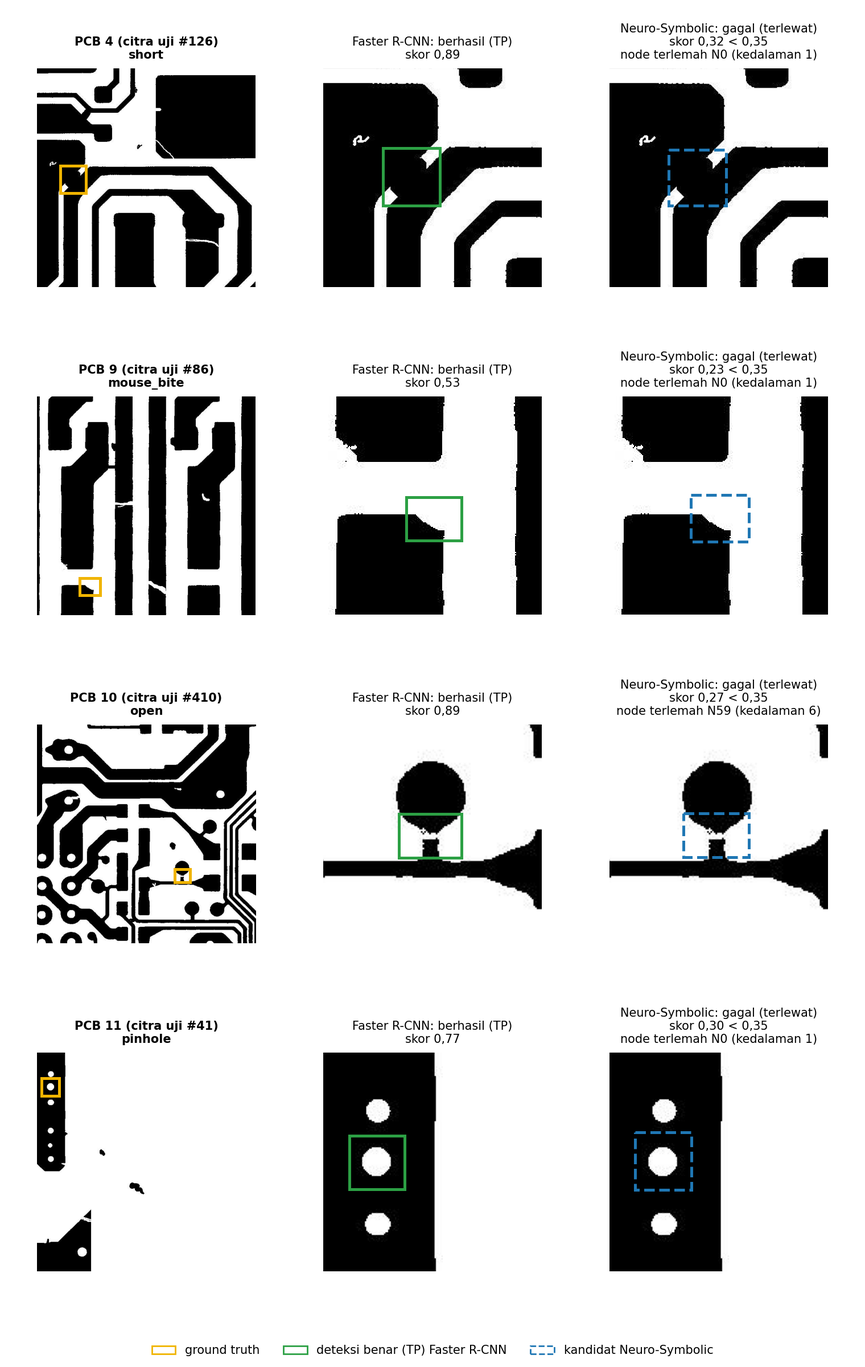
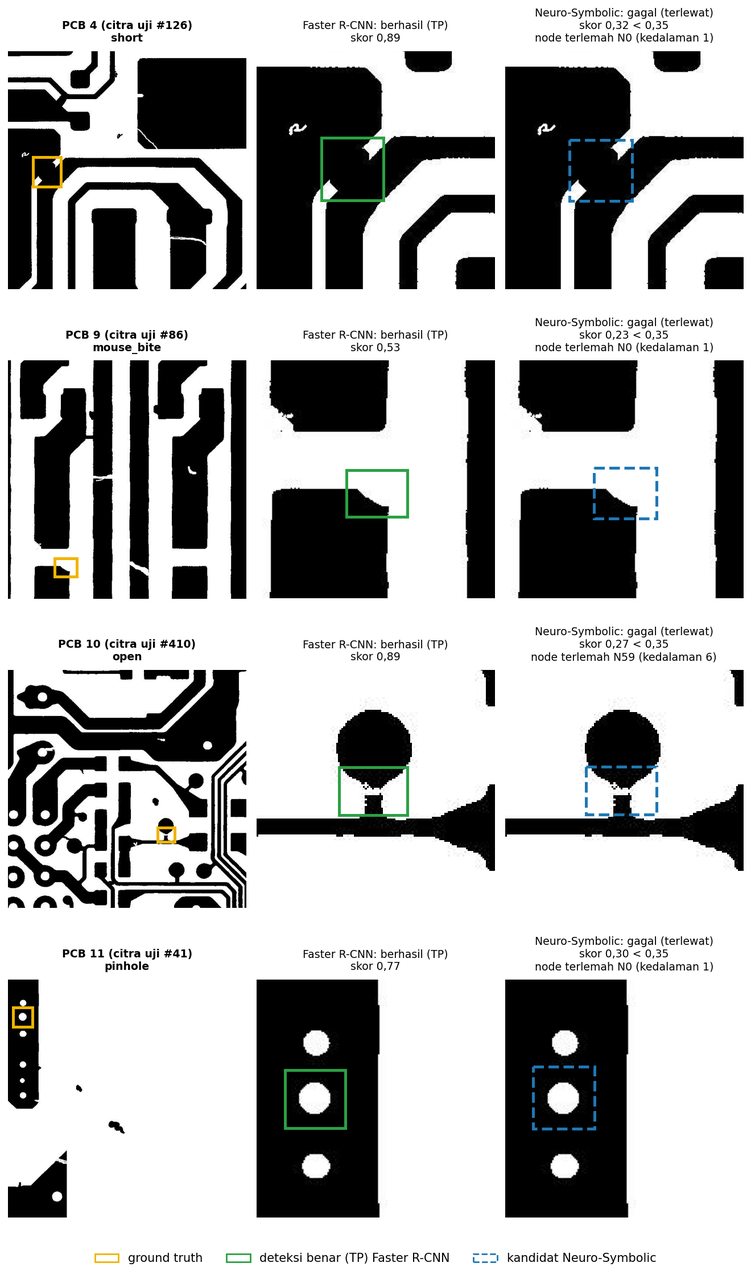
Adding routing margin figure

diff --git a/papers/make_figures_bab4.py b/papers/make_figures_bab4.py
@@ -1,4 +1,4 @@
-"""Figures for Bab 4: Gambar 4.10 (deteksi 4 PCB), 4.11/4.12 (bukti FP/FN), 4.13 (keyakinan root), 4.14 (confusion matrix).
+"""Figures for Bab 4: Lampiran 1 (deteksi 4 PCB), Gambar 4.10/4.11 (bukti FP/FN), 4.12 (keyakinan root), 4.13 (confusion matrix), 4.14 (routing margin per node).
 
 Run from anywhere: python papers/make_figures_bab4.py
 Inference is cached in figures_bab4_v2/_cache_detections.pt (detections, NeSy per-node certainties) and
@@ -226,7 +226,7 @@ def blank_axis(ax) -> None:
 
 
 def detection_figure(records, dataset) -> None:
-    """Gambar 4.10: GT | Faster R-CNN | NeSy for four PCBs. Every model box carries its score
+    """Lampiran 1: GT | Faster R-CNN | NeSy for four PCBs. Every model box carries its score
     (a missed defect shows its best same-class candidate's score, or – if the model has none)."""
     fig, axes = plt.subplots(len(DETECTION_PCBS), 3, figsize=(9.0, 12.6), dpi=200)
     fig.subplots_adjust(left=0.01, right=0.99, top=0.955, bottom=0.04, wspace=0.03, hspace=0.20)
@@ -335,9 +335,9 @@ def evidence_rows(records, hybrid, dataset, device) -> tuple[list[dict], list[di
 
 
 def evidence_figure(rows: list[dict], group: str, dataset, filename: str) -> None:
-    """Gambar 4.11 ("fp") / 4.12 ("fn"): PCB (one marked location) | Faster R-CNN | NeSy, one example per row."""
-    fig = plt.figure(figsize=(7.6, 2.8 * len(rows) + 0.8), dpi=200)
-    grid = fig.add_gridspec(len(rows), 3, hspace=0.5, wspace=0.04, left=0.01, right=0.99, top=0.95, bottom=0.07)
+    """Gambar 4.10 ("fp") / 4.11 ("fn"): PCB (one marked location) | Faster R-CNN | NeSy, one example per row."""
+    fig = plt.figure(figsize=(6.6, 2.6 * len(rows) + 0.8), dpi=200)  # width ≈ row height, so the square crops fill their slots
+    grid = fig.add_gridspec(len(rows), 3, hspace=0.3, wspace=0.04, left=0.01, right=0.99, top=0.96, bottom=0.045)
     marker_color = FP_RED if group == "fp" else FN_YELLOW
     all_axes = []
     for k, row in enumerate(rows):
@@ -347,7 +347,7 @@ def evidence_figure(rows: list[dict], group: str, dataset, filename: str) -> Non
         marker = row["frcnn"]["box"] if group == "fp" else row["gt_box"]
         axes[0].imshow(image)
         draw_box(axes[0], marker, marker_color, linewidth=1.8, pad=6)
-        axes[0].set_title(f"PCB {row['pcb']} (citra uji #{row['index']})\n{row['cls']}", fontsize=7.5, fontweight="bold")
+        axes[0].set_title(f"PCB {row['pcb']} (citra uji #{row['index']})\n{row['cls']}", fontsize=6.8, fontweight="bold")
         left, top, right, bottom = crop_window(marker)
         for ax in axes[1:]:
             ax.imshow(image)
@@ -357,11 +357,11 @@ def evidence_figure(rows: list[dict], group: str, dataset, filename: str) -> Non
         draw_box(axes[2], row["nesy_box"], REJECT_BLUE, linestyle="--", linewidth=1.8)
         nesy_score = f"skor {fmt(row['nesy_score'])} < {fmt_threshold(NESY_THR)}"
         if group == "fp":
-            axes[1].set_title(f"Faster R-CNN: gagal (FP)\nskor {fmt(row['frcnn']['score'])}", fontsize=7.5)
-            axes[2].set_title(f"Neuro-Symbolic: berhasil (ditolak)\n{nesy_score}", fontsize=7.5)
+            axes[1].set_title(f"Faster R-CNN: gagal (FP)\nskor {fmt(row['frcnn']['score'])}", fontsize=6.8)
+            axes[2].set_title(f"Neuro-Symbolic: berhasil (ditolak)\n{nesy_score}", fontsize=6.8)
         else:
-            axes[1].set_title(f"Faster R-CNN: berhasil (TP)\nskor {fmt(row['frcnn']['score'])}", fontsize=7.5)
-            axes[2].set_title(f"Neuro-Symbolic: gagal (terlewat)\n{nesy_score}\nnode terlemah N{row['node']} (kedalaman {row['depth']})", fontsize=7.5)
+            axes[1].set_title(f"Faster R-CNN: berhasil (TP)\nskor {fmt(row['frcnn']['score'])}", fontsize=6.8)
+            axes[2].set_title(f"Neuro-Symbolic: gagal (terlewat)\n{nesy_score}\nnode terlemah N{row['node']} (kedalaman {row['depth']})", fontsize=6.8)
     for ax in all_axes:
         blank_axis(ax)
     handles = [plt.Rectangle((0, 0), 1, 1, fill=False, edgecolor=REJECT_BLUE, linestyle="--", label="kandidat Neuro-Symbolic")]
@@ -425,7 +425,7 @@ def root_confidence(records: list[dict], tree) -> dict[str, object]:
 
 
 def root_figure(confidence: dict[str, object], counts: np.ndarray) -> None:
-    """Gambar 4.13: (a) root σ of detected defects, rejected Faster R-CNN false positives and missed defects,
+    """Gambar 4.12: (a) root σ of detected defects, rejected Faster R-CNN false positives and missed defects,
     (b) share of RoIs N0 sends left / right per class."""
     tp, misses, rejected = confidence["tp"], confidence["misses"], np.array([m["sigma"] for m in confidence["rejected"]])
     names = ["background", "open", "short", "mousebite", "spur", "spurious copper", "pinhole"]
@@ -490,7 +490,7 @@ def root_figure(confidence: dict[str, object], counts: np.ndarray) -> None:
 
 
 def confusion_figure(cms: dict[str, np.ndarray]) -> None:
-    """Gambar 4.14: confusion matrix without (a) and with (b) routing margin, one shared color scale."""
+    """Gambar 4.13: confusion matrix without (a) and with (b) routing margin, one shared color scale."""
     names = ["background", "open", "short", "mousebite", "spur", "spurious copper", "pinhole"]
     vmax = max(cms["nomargin"].max(), cms["nesy"].max())
     fig, axes = plt.subplots(1, 2, figsize=(11.5, 6.2), dpi=200)
@@ -513,6 +513,99 @@ def confusion_figure(cms: dict[str, np.ndarray]) -> None:
     plt.close(fig)
 
 
+# (test index, row in the cached NeSy output, score): A is a pinhole TP, B a background pinhole candidate under the cutoff.
+MARGIN_EXAMPLES = ((360, 0, 0.856), (47, 6, 0.267))
+BAND_EDGES = (0.5, 0.6, 0.7, 0.8, 0.9, 1.0001)
+BAND_COLORS = plt.cm.Blues(np.linspace(0.12, 0.75, len(BAND_EDGES) - 1))  # the five blue bands of Gambar 3.5
+
+
+def draw_margin_panel(ax, tree, feature: np.ndarray, step, is_root: bool) -> None:
+    """One node as in Gambar 3.5: split line, blue σ bands, the RoI x and its distance |f(x)| to the split.
+
+    Axes are the node's score split in two, a = evidence for left (Σw⁺x) and c = evidence for right (−Σw⁻x),
+    so f(x) = a − c + b exactly (same construction as neurosym.visualization._draw_node_split_panel).
+    """
+    w, bias = tree.node_weights[step.node_index], float(tree.node_bias[step.node_index])
+    parts = w * feature
+    a, c = float(parts[w > 0].sum()), float(-parts[w < 0].sum())
+    assert abs(a - c + bias - step.score) < 1e-3 * (1 + abs(step.score)), (step.node_index, a - c + bias, step.score)
+    lo, hi = min(0.0, a, c), 1.15 * max(a, c, abs(bias), 1e-6)
+    grid = np.linspace(lo, hi, 200)
+    sigma = 1 / (1 + np.exp(-np.abs(grid[None, :] - grid[:, None] + bias)))  # rows = c, cols = a
+    ax.contourf(grid, grid, sigma, levels=BAND_EDGES, colors=BAND_COLORS, zorder=0)
+    ax.plot(grid, grid + bias, color="black", lw=1.3, zorder=2)
+    foot = ((a + c - bias) / 2, (a + c + bias) / 2)  # closest point on the split line
+    ax.plot([a, foot[0]], [c, foot[1]], color=FP_RED, lw=1.6, ls=":", zorder=3)
+    ax.plot(a, c, "o", color="#fdd835", mec="black", ms=7, zorder=4)
+    ax.text(a, c, " x", fontsize=8, style="italic", fontweight="bold", va="bottom", zorder=5)
+    mid = (a + foot[0]) / 2
+    ax.text(mid, (c + foot[1]) / 2, " |f(x)| ", fontsize=6.5, color=FP_RED, ha="right" if mid > (lo + hi) / 2 else "left", va="top", zorder=5)
+    ax.set_xlim(lo, hi)
+    ax.set_ylim(lo, hi)
+    ax.set_aspect("equal")
+    ax.tick_params(labelsize=6)
+    ax.set_title(f"N{step.node_index}{' (akar)' if is_root else ''}: ke {'kiri' if step.went_left else 'kanan'}", fontsize=7.5, fontweight="bold", pad=3)
+    ax.set_xlabel(f"bukti kiri\nσ(|f(x)|) ≈ {fmt(1 / (1 + np.exp(-abs(step.score))))}", fontsize=7, labelpad=2)
+    ax.set_ylabel("bukti kanan", fontsize=7, labelpad=2)
+
+
+@torch.inference_mode()
+def routing_margin_figure(records: list[dict], hybrid, dataset: PCBDataset) -> None:
+    """Gambar 4.14: routing margin of every node on the path of a pinhole TP (A) and a background pinhole under the cutoff (B), styled as Gambar 3.5."""
+    tree = hybrid.symbolic_tree
+    columns = []
+    for index, row, expected in MARGIN_EXAMPLES:
+        record, nesy = records[index], records[index]["nesy"]
+        label, score, box = int(nesy["labels"][row]), float(nesy["scores"][row]), nesy["boxes"][row]
+        iou = float(box_iou(box[None], record["gt_boxes"]).max()) if record["gt_boxes"].numel() else 0.0
+        assert label == 6 and abs(score - expected) < 6e-4, (index, row, label, score)
+        assert abs(float(np.exp(nesy["log_certainties"][row].sum())) - score) < 2e-3, "score is Πσ (Persamaan 3.3)"
+        assert (iou >= IOU_THR) if expected > NESY_THR else (iou < BACKGROUND_IOU and score < NESY_THR), (index, iou)
+        image, _ = dataset[index]
+        out = hybrid([image])[0]
+        k = [j for j in range(len(out["scores"])) if int(out["labels"][j]) == label and abs(float(out["scores"][j]) - score) < 1e-5]
+        assert len(k) == 1, (index, row, k)
+        feature = out["pooled_features"][k[0]].detach().cpu().numpy().reshape(-1)
+        steps = [s for s in tree.decision_path(feature) if np.any(tree.node_weights[s.node_index] != 0.0)]
+        print(f"routing margin figure {'AB'[len(columns)]}: PCB test #{index}, score {score:.3f}, path {[f'N{s.node_index}' for s in steps]}, "
+              f"σ {[round(float(1 / (1 + np.exp(-abs(s.score)))), 3) for s in steps]}")
+        columns.append((score, box, image_to_array(image), feature, steps))
+
+    rows = max(len(steps) for *_, steps in columns) // 2
+    fig = plt.figure(figsize=(7.2, 8.6), dpi=200)
+    # Crops, node panels and verdict boxes are separate blocks so each vertical gap is set on its own.
+    block = dict(ncols=5, width_ratios=(1, 1, 0.08, 1, 1), left=0.06, right=0.98, wspace=0.42)
+    crop_grid = fig.add_gridspec(1, top=0.905, bottom=0.745, **block)
+    grid = fig.add_gridspec(rows, top=0.70, bottom=0.185, hspace=0.55, **block)
+    box_grid = fig.add_gridspec(1, top=0.115, bottom=0.07, **block)
+    for side, (score, box, array, feature, steps) in zip((0, 3), columns):
+        accepted = score >= NESY_THR
+        ax = fig.add_subplot(crop_grid[0, side:side + 2])
+        left, top, right, bottom = crop_window(box, factor=6.0)
+        ax.imshow(array)
+        ax.set_xlim(left, right)
+        ax.set_ylim(bottom, top)
+        draw_box(ax, box, TP_GREEN if accepted else REJECT_BLUE, linestyle="-" if accepted else "--", linewidth=1.8)
+        ax.set_title(f"{'A' if accepted else 'B'}: pinhole, skor {fmt(score)}", fontsize=10, fontweight="bold")
+        blank_axis(ax)
+        for n, step in enumerate(steps):
+            panel = fig.add_subplot(grid[n // 2, side + n % 2])
+            draw_margin_panel(panel, tree, feature, step, step.node_index == 0)
+        ax = fig.add_subplot(box_grid[0, side:side + 2])
+        blank_axis(ax)
+        verdict = f"s(x) = ∏ σ(|fᵢ(x)|) ≈ {fmt(score)}" + ("" if accepted else f"\n< {fmt_threshold(NESY_THR)}: ditolak")
+        ax.text(0.5, 0.5, verdict, ha="center", va="center", fontsize=8.5, fontweight="bold", transform=ax.transAxes,
+                bbox=dict(boxstyle="square,pad=0.5", facecolor="#fff75e", edgecolor=FP_RED, linewidth=2))
+    legend = fig.add_axes((0.20, 0.037, 0.60, 0.014))
+    legend.imshow(np.arange(len(BAND_COLORS))[None, :], cmap=matplotlib.colors.ListedColormap(BAND_COLORS), aspect="auto")
+    blank_axis(legend)
+    fig.text(0.20, 0.016, "dekat split: σ ≈ 0,5 (ragu)", fontsize=8, ha="left", va="center")
+    fig.text(0.80, 0.016, "jauh dari split: σ → 1 (yakin)", fontsize=8, ha="right", va="center")
+    fig.suptitle("Routing margin setiap node pada jalur keputusan", fontsize=10, fontweight="bold", x=0.5, y=0.985)
+    fig.savefig(OUT / "fig_routing_margin.png", facecolor="white")
+    plt.close(fig)
+
+
 def main() -> None:
     hybrid, train_config, device = load_models()
     dataset = load_test_set(train_config)
@@ -526,6 +619,7 @@ def main() -> None:
     evidence_figure(rows_fn, "fn", dataset, "fig_fn_terlewat.png")
     root_figure(root_confidence(records, hybrid.symbolic_tree), root_split_counts(hybrid, dataset, device))
     confusion_figure(cms)
+    routing_margin_figure(records, hybrid, dataset)
 
 
 if __name__ == "__main__":

diff --git a/papers/Draft-Laporan_Handi_v2.md b/papers/Draft-Laporan_Handi_v2.md
@@ -278,15 +278,15 @@ Gambar 4.8 Grafik *Mimic Accuracy* dan *Nonzero Weight*
 
 Gambar 4.9 Perbandingan Struktur Pohon Penuh dan SODT Terpilih
 
-Gambar 4.10 Hasil deteksi *ground truth*, *Faster* R-CNN, dan *Neuro-Symbolic* pada empat PCB uji
+Gambar 4.10 *False positive Faster* R-CNN yang ditolak NeSy
 
-Gambar 4.11 *False positive Faster* R-CNN yang ditolak NeSy
+Gambar 4.11 Cacat yang terdeteksi *Faster* R-CNN tetapi terlewat NeSy
 
-Gambar 4.12 Cacat yang terdeteksi *Faster* R-CNN tetapi terlewat NeSy
+Gambar 4.12 Keyakinan *root* pada deteksi benar, *false positive* yang ditolak, dan cacat terlewat NeSy: (a) keyakinan *root* dan (b) arah *root* per kelas
 
-Gambar 4.13 Keyakinan *root* pada deteksi benar, *false positive* yang ditolak, dan cacat terlewat NeSy: (a) keyakinan *root* dan (b) arah *root* per kelas
+Gambar 4.13 *Confusion Matrix Neuro-Symbolic* (ambang 0,35): (a) tanpa *Routing Margin* dan (b) dengan *Routing Margin*
 
-Gambar 4.14 *Confusion Matrix Neuro-Symbolic* (ambang 0,35): (a) tanpa *Routing Margin* dan (b) dengan *Routing Margin*
+Gambar 4.14 *Routing Margin* per *Node* pada Deteksi *Pinhole* Benar (A) dan *Background* yang Ditolak (B)
 
 Gambar 4.15 Penjelasan pada PCB 1: (a) peta M (NeSy) dan (b) peta Grad-CAM pada proposal yang sama
 
@@ -338,9 +338,7 @@ Tabel 4.11 Cacat Terlewat (*False Negative*) per Kelas
 
 Tabel 4.12 Pengaruh *Routing Margin* pada Deteksi *Neuro-Symbolic*
 
-Tabel 4.13 Jenis *False Positive* tanpa dan dengan *Routing Margin*
-
-Tabel 4.14 *Faithfulness* Metode *Explanation* terhadap *Random Control*
+Tabel 4.13 *Faithfulness* Metode *Explanation* terhadap *Random Control*
 
 # DAFTAR ALGORITMA
 
@@ -1476,11 +1474,7 @@ Ambang NeSy tanpa CW diturunkan dengan aturan yang sama pada Subbab 3.8.1, yaitu
 
 Berdasarkan Tabel 4.8, SODT menggantikan *classification head* dengan selisih mAP@0,5:0,95 hanya 0,010 dan mAP@0,5 hanya 0,005, tetapi *precision* naik 0,9 poin dan F1 naik 0,3 poin, dengan *recall* turun 0,5 poin. Selisih ini kecil, sehingga NeSy dibaca setara dengan *Faster* R-CNN pada ambang masing-masing, bukan lebih baik. Baris *precision* pada Tabel 4.9 menunjukkan *precision* naik pada lima dari enam kelas, terbesar pada *short* (+0,035) dan *spurious copper* (+0,017) yang termasuk kelas paling lemah di *Faster* R-CNN, sedangkan *spur* turun 0,017. Hanya pada *short* selisihnya cukup besar. Pohon tanpa CW (baris terakhir Tabel 4.8) memberi mAP, *precision*, *recall*, dan F1 yang sama sampai tiga desimal, dengan *precision short* 0,890 yang bahkan lebih tinggi daripada 0,862. Jadi CW memperbaiki *agreement* pohon pada kelas lemah (Tabel 4.6), tetapi pengaruh tersebut tidak terlihat pada kinerja deteksi, dan kenaikan *precision* di atas tidak dapat dikaitkan dengan CW. AP pada Tabel 4.9 sedikit lebih rendah pada semua kelas karena SODT menurunkan kualitas urutan skor, sebagaimana dibahas pada Subbab 4.6.3.
 
-Hasil deteksi ditunjukkan pada empat PCB uji pada Gambar 4.10, dengan *ground truth* pada kolom pertama, *Faster* R-CNN pada kolom kedua, dan NeSy pada kolom ketiga. PCB 1 sampai PCB 3 dipilih acak dari citra yang dideteksi benar oleh kedua model, sedangkan PCB 4 dipilih karena kedua model berbeda hasilnya. Ambang skor masing-masing model tertera pada judul kolom. Kotak hijau adalah deteksi benar (TP) dan diberi nomor urutan skor serta skornya, tanpa kelas karena kelasnya sama dengan *ground truth* pada kolom pertama. Kotak merah adalah *false positive* (FP) dengan nomor, kelas, dan skor, sedangkan kotak kuning putus-putus menandai cacat yang terlewat (FN) dengan kelas dan skor kandidat terbaik model pada cacat tersebut, atau tanda – bila model tidak memiliki kandidat. PCB 1 digunakan kembali pada Subbab 4.7.2.
-
-![Gambar 4.10](figures_bab4_v2/fig_deteksi_4pcb.png)
-
-**Gambar 4.10 Hasil deteksi *ground truth*, *Faster* R-CNN, dan *Neuro-Symbolic* pada empat PCB uji**
+Hasil deteksi pada empat PCB uji ditunjukkan pada Lampiran 1. PCB 1 sampai PCB 3 dipilih acak dari citra yang dideteksi benar oleh kedua model, sedangkan PCB 4 dipilih karena kedua model berbeda hasilnya. PCB 1 digunakan kembali pada Subbab 4.7.2.
 
 Pada PCB 1 sampai PCB 3, kedua model menemukan seluruh cacat dengan kelas yang benar dan tanpa *false positive*. Perbedaannya terletak pada skor yang tertera pada setiap kotak. Pada ke-19 deteksi di PCB 1 sampai PCB 3, *Faster* R-CNN memberi skor 0,98 hingga 1,00, sedangkan NeSy memberi skor 0,40 hingga 0,83 yang bervariasi menurut keyakinan *decision path*. Pada PCB 4 yang memuat 8 cacat, kedua model kesulitan pada kelompok *short* di kiri bawah. *Faster* R-CNN menghasilkan dua *false positive* (#9 dan #10, *short* berskor 0,73 dan 0,70) dengan seluruh cacat terdeteksi, sedangkan NeSy menghasilkan satu *false positive* (#8, *spur* berskor 0,48) dan melewatkan satu *short*. Kesalahan tersebut berbeda jenis tetapi sama-sama terjadi pada area yang ambigu, dan pola serupa dibahas pada Subbab 4.6.2.
 
@@ -1506,29 +1500,29 @@ Dari 260 *false positive* *background* *Faster* R-CNN, 74 tidak lagi terdeteksi 
 
 Dari cacat yang berhasil dideteksi *Faster* R-CNN, 15 hilang pada NeSy. Sebanyak 14 di antaranya terjadi karena skor NeSy berada di bawah ambang 0,35 dan hanya satu karena kelas yang salah. Penyebab skor rendah adalah *node* terlemah pada *decision path*, yaitu *node* dengan faktor σ terkecil pada Persamaan 3.3, yang berupa *root* (N0) pada 9 dari 14 kasus. Kehilangan terbanyak terjadi pada *open* dan *mousebite* (masing-masing 4), diikuti *short* (3), *pinhole* (2), serta *spur* dan *spurious copper* (masing-masing 1).
 
-Kedua sisi perilaku tersebut ditunjukkan pada Gambar 4.11 dan Gambar 4.12. Setiap baris memuat satu contoh dengan tiga kolom, yaitu citra PCB utuh dengan satu kotak penanda lokasi, potongan yang diperbesar berisi hasil *Faster* R-CNN, dan potongan yang sama berisi hasil NeSy. Gambar 4.11 memperlihatkan *false positive* *Faster* R-CNN pada area tanpa cacat yang ditolak NeSy. Kotak merah pada citra PCB menandai lokasinya, kotak merah pada potongan adalah deteksi *Faster* R-CNN, dan kotak biru putus-putus adalah kandidat NeSy yang skornya berada di bawah ambang.
+Kedua sisi perilaku tersebut ditunjukkan pada Gambar 4.10 dan Gambar 4.11. Setiap baris memuat satu contoh dengan tiga kolom, yaitu citra PCB utuh dengan satu kotak penanda lokasi, potongan yang diperbesar berisi hasil *Faster* R-CNN, dan potongan yang sama berisi hasil NeSy. Gambar 4.10 memperlihatkan *false positive* *Faster* R-CNN pada area tanpa cacat yang ditolak NeSy. Kotak merah pada citra PCB menandai lokasinya, kotak merah pada potongan adalah deteksi *Faster* R-CNN, dan kotak biru putus-putus adalah kandidat NeSy yang skornya berada di bawah ambang.
 
-![Gambar 4.11](figures_bab4_v2/fig_fp_ditolak.png)
+![Gambar 4.10](figures_bab4_v2/fig_fp_ditolak.png)
 
-**Gambar 4.11 *False positive Faster* R-CNN yang ditolak NeSy**
+**Gambar 4.10 *False positive Faster* R-CNN yang ditolak NeSy**
 
-Pada Gambar 4.11, keempat kotak merah *Faster* R-CNN (skor 0,62 hingga 0,78) menutupi struktur yang tampak seperti cacat, misalnya lubang bundar pada tembaga atau jalur yang berdekatan, dengan kelas prediksi *pinhole*, *short*, *spurious copper*, dan *mousebite*, tetapi tidak ada anotasi di sana. NeSy memberi kandidat yang hampir sama kotaknya, namun berskor 0,21 hingga 0,29 sehingga berada di bawah ambang 0,35.
+Pada Gambar 4.10, keempat kotak merah *Faster* R-CNN (skor 0,62 hingga 0,78) menutupi struktur yang tampak seperti cacat, misalnya lubang bundar pada tembaga atau jalur yang berdekatan, dengan kelas prediksi *pinhole*, *short*, *spurious copper*, dan *mousebite*, tetapi tidak ada anotasi di sana. NeSy memberi kandidat yang hampir sama kotaknya, namun berskor 0,21 hingga 0,29 sehingga berada di bawah ambang 0,35.
 
-Gambar 4.12 memperlihatkan arah sebaliknya, yaitu cacat yang terdeteksi *Faster* R-CNN tetapi terlewat NeSy. Kotak kuning pada citra PCB adalah *ground truth*, kotak hijau pada potongan adalah deteksi benar *Faster* R-CNN, dan kotak biru putus-putus adalah kandidat NeSy. *Node* terlemah pada *decision path* tertulis pada judul potongan NeSy. Contoh pertama berasal dari PCB 4 pada Gambar 4.10.
+Gambar 4.11 memperlihatkan arah sebaliknya, yaitu cacat yang terdeteksi *Faster* R-CNN tetapi terlewat NeSy. Kotak kuning pada citra PCB adalah *ground truth*, kotak hijau pada potongan adalah deteksi benar *Faster* R-CNN, dan kotak biru putus-putus adalah kandidat NeSy. *Node* terlemah pada *decision path* tertulis pada judul potongan NeSy. Contoh pertama berasal dari PCB 4 pada Lampiran 1.
 
-![Gambar 4.12](figures_bab4_v2/fig_fn_terlewat.png)
+![Gambar 4.11](figures_bab4_v2/fig_fn_terlewat.png)
 
-**Gambar 4.12 Cacat yang terdeteksi *Faster* R-CNN tetapi terlewat NeSy**
+**Gambar 4.11 Cacat yang terdeteksi *Faster* R-CNN tetapi terlewat NeSy**
 
-Pada Gambar 4.12, keempat cacat nyata (*short*, *mousebite*, *open*, dan *pinhole*) memiliki skor NeSy 0,23 hingga 0,32, dengan tiga di antaranya ditolak pada *root* dan satu pada N59. Kotak NeSy hampir sama dengan kotak *Faster* R-CNN dan *ground truth*. Dengan demikian NeSy tidak salah menemukan lokasi, melainkan kurang yakin terhadap kelasnya. Cacat pada PCB 4 adalah *short* yang terlewat pada Gambar 4.10.
+Pada Gambar 4.11, keempat cacat nyata (*short*, *mousebite*, *open*, dan *pinhole*) memiliki skor NeSy 0,23 hingga 0,32, dengan tiga di antaranya ditolak pada *root* dan satu pada N59. Kotak NeSy hampir sama dengan kotak *Faster* R-CNN dan *ground truth*. Dengan demikian NeSy tidak salah menemukan lokasi, melainkan kurang yakin terhadap kelasnya. Cacat pada PCB 4 adalah *short* yang terlewat pada Lampiran 1.
 
-Penyebab skor rendah tersebut diuji pada Gambar 4.13. Keyakinan *root* adalah faktor σ milik *root* pada Persamaan 3.3, bernilai 0,5 bila *root* sama sekali tidak yakin dan mendekati 1 bila sangat yakin. Panel (a) membandingkan keyakinan *root* pada 3.072 deteksi benar NeSy, pada 69 *false positive* *background* *Faster* R-CNN yang ditolak NeSy dengan kandidat berskor di bawah ambang (5 lainnya tidak memiliki kandidat NeSy sama sekali), dan pada 14 cacat yang ditolak karena skornya di bawah ambang 0,35. Panel (b) menunjukkan ke arah mana *root* mengirim RoI dari setiap kelas menurut label *teacher*.
+Penyebab skor rendah tersebut diuji pada Gambar 4.12. Keyakinan *root* adalah faktor σ milik *root* pada Persamaan 3.3, bernilai 0,5 bila *root* sama sekali tidak yakin dan mendekati 1 bila sangat yakin. Panel (a) membandingkan keyakinan *root* pada 3.072 deteksi benar NeSy, pada 69 *false positive* *background* *Faster* R-CNN yang ditolak NeSy dengan kandidat berskor di bawah ambang (5 lainnya tidak memiliki kandidat NeSy sama sekali), dan pada 14 cacat yang ditolak karena skornya di bawah ambang 0,35. Panel (b) menunjukkan ke arah mana *root* mengirim RoI dari setiap kelas menurut label *teacher*.
 
-![Gambar 4.13](figures_bab4_v2/fig_root_keyakinan.png)
+![Gambar 4.12](figures_bab4_v2/fig_root_keyakinan.png)
 
-**Gambar 4.13 Keyakinan *root* pada deteksi benar, *false positive* yang ditolak, dan cacat terlewat NeSy: (a) keyakinan *root* dan (b) arah *root* per kelas**
+**Gambar 4.12 Keyakinan *root* pada deteksi benar, *false positive* yang ditolak, dan cacat terlewat NeSy: (a) keyakinan *root* dan (b) arah *root* per kelas**
 
-Pada Gambar 4.13 (a), deteksi benar memiliki median keyakinan *root* 0,85 dan hanya 45 dari 3.072 (1,5%) yang berada di bawah 0,65. *False positive* *background* yang ditolak bermedian 0,61 dengan 44 dari 69 di bawah 0,65, sedangkan 9 cacat yang ditolak di *root* bermedian 0,55 dan tidak ada yang melebihi 0,61. Dengan demikian RoI yang ditolak, baik *background* maupun cacat, sama-sama memiliki keyakinan *root* yang rendah, yang jarang dimiliki deteksi benar. Pada panel (b), *root* mengirim sebagian besar *background* (83%) ke kiri dan sebagian besar cacat ke kanan, dari 53% pada *spur* hingga 100% pada *mousebite*. Keyakinan *root* yang mendekati 0,5 berarti RoI berada dekat batas antara kedua sisi tersebut, sehingga keputusan pertama NeSy goyah dan skor akhirnya turun di bawah ambang. *Root* menjadi *node* terlemah pada 39 dari 69 *false positive* yang ditolak dan pada 9 dari 14 cacat yang terlewat. Sisanya (30 *false positive* dan 5 cacat, yang terakhir ditandai titik berongga pada panel (a)) tidak paling lemah di *root*, tetapi ditolak pada *node* yang lebih dalam dengan mekanisme yang sama, yaitu RoI berada dekat batas keputusan *node* yang mereka pisahkan. Mekanisme ini tidak berlaku untuk salah kelas yang bertambah pada Tabel 4.10. Pada 22 *false positive* salah kelas yang tidak dibuat *Faster* R-CNN, keyakinan *root* bermedian 0,87 dan *root* hanya menjadi *node* terlemah pada 6 kasus, sehingga kesalahan kelas tersebut berasal dari *node* yang lebih dalam, bukan dari *root* yang ragu. Dengan demikian, *background* yang ditolak dan cacat yang terlewat dijelaskan oleh sebab yang sama: RoI yang dekat batas keputusan pohon mendapat skor rendah, sehingga *background* yang ambigu ditolak (*precision* naik) dan cacat yang ambigu ikut ditolak (*recall* turun), bukan karena NeSy salah menemukan lokasi.
+Pada Gambar 4.12 (a), deteksi benar memiliki median keyakinan *root* 0,85 dan hanya 45 dari 3.072 (1,5%) yang berada di bawah 0,65. *False positive* *background* yang ditolak bermedian 0,61 dengan 44 dari 69 di bawah 0,65, sedangkan 9 cacat yang ditolak di *root* bermedian 0,55 dan tidak ada yang melebihi 0,61. Dengan demikian RoI yang ditolak, baik *background* maupun cacat, sama-sama memiliki keyakinan *root* yang rendah, yang jarang dimiliki deteksi benar. Pada panel (b), *root* mengirim sebagian besar *background* (83%) ke kiri dan sebagian besar cacat ke kanan, dari 53% pada *spur* hingga 100% pada *mousebite*. Keyakinan *root* yang mendekati 0,5 berarti RoI berada dekat batas antara kedua sisi tersebut, sehingga keputusan pertama NeSy goyah dan skor akhirnya turun di bawah ambang. *Root* menjadi *node* terlemah pada 39 dari 69 *false positive* yang ditolak dan pada 9 dari 14 cacat yang terlewat. Sisanya (30 *false positive* dan 5 cacat, yang terakhir ditandai titik berongga pada panel (a)) tidak paling lemah di *root*, tetapi ditolak pada *node* yang lebih dalam dengan mekanisme yang sama, yaitu RoI berada dekat batas keputusan *node* yang mereka pisahkan. Mekanisme ini tidak berlaku untuk salah kelas yang bertambah pada Tabel 4.10. Pada 22 *false positive* salah kelas yang tidak dibuat *Faster* R-CNN, keyakinan *root* bermedian 0,87 dan *root* hanya menjadi *node* terlemah pada 6 kasus, sehingga kesalahan kelas tersebut berasal dari *node* yang lebih dalam, bukan dari *root* yang ragu. Dengan demikian, *background* yang ditolak dan cacat yang terlewat dijelaskan oleh sebab yang sama: RoI yang dekat batas keputusan pohon mendapat skor rendah, sehingga *background* yang ambigu ditolak (*precision* naik) dan cacat yang ambigu ikut ditolak (*recall* turun), bukan karena NeSy salah menemukan lokasi.
 
 ### 4.6.3 *Routing Margin* (Kontribusi 2)
 
@@ -1541,32 +1535,33 @@ Tanpa *routing margin*, setiap deteksi berskor 1,0 sehingga urutan skor yang dib
 | NeSy tanpa *routing margin* | 0,35 | 0,644 | 0,810 | 0,750 | **0,988** | 0,852 |
 | NeSy dengan *routing margin* | 0,35 | **0,787** | **0,982** | **0,912** | 0,978 | **0,944** |
 
-Berdasarkan Tabel 4.12, *routing margin* menaikkan mAP@0,5:0,95 sebesar 0,142 dan mAP@0,5 sebesar 0,172, serta *precision* sebesar 16,2 poin, dengan *recall* hanya turun 1,0 poin. Tanpa skor, *false positive* meningkat dari 298 menjadi 1.036 (Tabel 4.13), sebagian besar karena duplikat tidak dapat dibedakan oleh *Soft*-NMS (7 menjadi 140) dan *background* tidak dapat disaring (215 menjadi 517).
+Berdasarkan Tabel 4.12, *routing margin* menaikkan mAP@0,5:0,95 sebesar 0,142 dan mAP@0,5 sebesar 0,172, serta *precision* sebesar 16,2 poin, dengan *recall* hanya turun 1,0 poin. Tanpa skor, *false positive* meningkat dari 298 menjadi 1.036, sebagian besar karena duplikat tidak dapat dibedakan oleh *Soft*-NMS (7 menjadi 140) dan *background* tidak dapat disaring (215 menjadi 517).
 
-**Tabel 4.13 Jenis *False Positive* tanpa dan dengan *Routing Margin***
+Rincian *false positive* tersebut dibuktikan melalui *confusion matrix* pada Gambar 4.13, dengan panel (a) tanpa *routing margin* dan panel (b) dengan *routing margin*. Tanpa *routing margin*, baris *background* membengkak, yaitu *background* yang dideteksi sebagai *short* (264), *pinhole* (218), *open* (152), dan *spurious copper* (143), dibandingkan 71, 89, 24, dan 51 dengan *routing margin*. Selain itu muncul pertukaran antarkelas seperti *mousebite* menjadi *pinhole* (25) dan *spurious copper* menjadi *pinhole* (16).
 
-| **Model** | **Background** | **Salah kelas** | **Salah lokalisasi** | **Duplikat** | **Total** |
-|:------------|--------|--------|--------|--------|--------|
-| NeSy tanpa *routing margin* | 517 | 248 | 131 | 140 | 1.036 |
-| NeSy dengan *routing margin* | **215** | **49** | **27** | **7** | **298** |
+![Gambar 4.13](figures_bab4_v2/cm_nesy_margin_compare.png)
 
-Pola yang sama terlihat pada *confusion matrix* pada Gambar 4.14, dengan panel (a) tanpa *routing margin* dan panel (b) dengan *routing margin*. Tanpa *routing margin*, baris *background* membengkak, yaitu *background* yang dideteksi sebagai *short* (264), *pinhole* (218), *open* (152), dan *spurious copper* (143), dibandingkan 71, 89, 24, dan 51 dengan *routing margin*. Selain itu muncul pertukaran antarkelas seperti *mousebite* menjadi *pinhole* (25) dan *spurious copper* menjadi *pinhole* (16).
+**Gambar 4.13 *Confusion Matrix Neuro-Symbolic* (ambang 0,35): (a) tanpa *Routing Margin* dan (b) dengan *Routing Margin***
 
-![Gambar 4.14](figures_bab4_v2/cm_nesy_margin_compare.png)
+Mekanisme penyaringan tersebut diperlihatkan pada Gambar 4.14 untuk dua deteksi *pinhole*, yaitu deteksi A berupa *true positive* dan deteksi B berupa kandidat pada *region* *background*. Gambar 4.14 dibaca seperti Gambar 3.5. Setiap panel mewakili satu *node* pada *decision path*, garis diagonal adalah *split*, titik kuning *x* adalah RoI, dan garis putus-putus merah adalah jarak RoI ke *split* yang sebanding dengan $\left. \mid f_{i}(x) \right.\mid$ pada Persamaan 3.3. Sumbu horizontal adalah bukti ke kiri ($\sum w^{+}x$) dan sumbu vertikal adalah bukti ke kanan ($-\sum w^{-}x$), sehingga selisih keduanya ditambah bias adalah $f_{i}(x)$.
 
-**Gambar 4.14 *Confusion Matrix Neuro-Symbolic* (ambang 0,35): (a) tanpa *Routing Margin* dan (b) dengan *Routing Margin***
+![Gambar 4.14](figures_bab4_v2/fig_routing_margin.png)
+
+**Gambar 4.14 *Routing Margin* per *Node* pada Deteksi *Pinhole* Benar (A) dan *Background* yang Ditolak (B)**
+
+Berdasarkan Gambar 4.14, kedua deteksi menempuh *decision path* yang sama, yaitu N0 → N2 → N6 → N14 → N29 → N60, dan berakhir pada label *pinhole*. Deteksi A jauh dari *split* pada seluruh *node* dengan σ antara 0,90 dan 1,00, sehingga skornya 0,86. Deteksi B berada tepat pada *split* di *root* (σ ≈ 0,50) dan dekat *split* pada N2, N6, dan N60 (σ 0,82 hingga 0,85), sehingga hasil kalinya hanya 0,27 dan berada di bawah ambang 0,35. *Routing margin* tidak mengubah label B, tetapi menurunkan skornya sehingga ditolak. Tanpa *routing margin*, kedua deteksi sama-sama berskor 1,0 dan B lolos sebagai *false positive*.
 
 Dengan demikian skor *routing margin* membuat SODT dapat menggantikan *classification head* tanpa kehilangan kemampuan deteksi, karena keyakinan *decision path* dapat dipakai sebagai skor. Bias terhadap panjang *decision path* pada Subbab 3.8.1 tetap ada, dan ditunjukkan oleh AP yang sedikit di bawah *Faster* R-CNN pada Tabel 4.9.
 
 ## 4.7 Hasil dan Evaluasi *Explanation* pada *Neuro-Symbolic* (Kontribusi 3)
 
-*Explanation* dievaluasi dengan dua cara, yaitu uji *faithfulness* pada 50 citra uji pertama (Subbab 4.7.1) dan studi kasus pada satu PCB (Subbab 4.7.2). Kedua uji memakai metode pada Subbab 3.9.2, dengan Grad-CAM sebagai pembanding.
+*Explanation* dievaluasi dengan dua cara. Uji *faithfulness* pada 50 citra uji pertama (Subbab 4.7.1) menguji apakah *region* yang disorot benar-benar menentukan keputusan, dan studi kasus pada satu PCB (Subbab 4.7.2) menunjukkan apa yang dapat dibaca dari penjelasan tersebut. Kedua uji memakai metode pada Subbab 3.9.2, dengan Grad-CAM sebagai pembanding.
 
 ### 4.7.1 *Faithfulness*
 
-Tabel 4.14 membandingkan metode yang menjelaskan SODT dengan Grad-CAM pada *Faster* R-CNN, masing-masing terhadap *random control*-nya sendiri. *Necessity* dan *Sufficiency* dalam persentase deteksi yang labelnya berubah atau bertahan, sedangkan *Deletion* dan *Insertion* AUC dihitung dari skor deteksi.
+Tabel 4.13 membandingkan metode yang menjelaskan SODT dengan Grad-CAM pada *Faster* R-CNN, masing-masing terhadap *random control*-nya sendiri. *Necessity* dan *Sufficiency* dalam persentase deteksi yang labelnya berubah atau bertahan, sedangkan *Deletion* dan *Insertion* AUC dihitung dari skor deteksi.
 
-**Tabel 4.14 *Faithfulness* Metode *Explanation* terhadap *Random Control***
+**Tabel 4.13 *Faithfulness* Metode *Explanation* terhadap *Random Control***
 
 | **Metode** | ***Necessity*** | ***Sufficiency*** | ***Deletion* AUC** | ***Insertion* AUC** | **Jumlah deteksi** |
 |:------------|-------|--------|--------|--------|--------|
@@ -1578,35 +1573,33 @@ Tabel 4.14 membandingkan metode yang menjelaskan SODT dengan Grad-CAM pada *Fast
 
 *Catatan:* *Necessity* dan *Sufficiency* makin tinggi makin baik, *Deletion* AUC makin rendah makin baik, dan *Insertion* AUC makin tinggi makin baik.
 
-Berdasarkan Tabel 4.14, petak yang diurutkan menurut peta M mengubah label pada 96,1% deteksi bila diganti, dibandingkan 59,1% untuk petak acak, dan mempertahankan label pada 77,4% deteksi bila hanya petak tersebut yang dipertahankan, dibandingkan 28,5% untuk petak acak. Selisih terhadap *random control* sebesar +0,371 (*necessity*) dan +0,490 (*sufficiency*), sedangkan pada Grad-CAM yang dibatasi pada proposal hanya +0,084 dan +0,168. Pada seluruh citra, Grad-CAM bahkan di bawah *random control* karena sebagian besar petak teratasnya berada di luar proposal, sedangkan peta M hanya menyala di dalam proposal. Perbandingan hanya dilakukan antara tiap metode dan *random control*-nya karena kedua metode menjelaskan kepala klasifikasi yang berbeda, sehingga angka mutlak antarmetode tidak sebanding. Jadi, *region* yang disorot SODT benar-benar menentukan keputusan *tree*, sesuai sifat *faithful* dari Subbab 3.8.2.
-
-Dari sisi waktu, *Faster* R-CNN hanya mendeteksi membutuhkan 54,6 ms per citra, NeSy dengan pembentukan *heatmap* per *node* 67,5 ms, dan *Faster* R-CNN dengan Grad-CAM 94,7 ms. Penjelasan SODT lebih murah karena dihitung dengan satu propagasi mundur per deteksi untuk seluruh *node*, sedangkan Grad-CAM memerlukan propagasi mundur tersendiri.
+Peta M jauh lebih *faithful* daripada *random control*, sedangkan Grad-CAM nyaris tidak. Mengganti petak teratas peta M mengubah label pada 96,1% deteksi (acak 59,1%), dan mempertahankan hanya petak tersebut menjaga label pada 77,4% (acak 28,5%). Selisihnya +0,371 dan +0,490, jauh di atas Grad-CAM yang dibatasi pada proposal (+0,084 dan +0,168). Perbedaan ini bersumber dari cara peta dibentuk. Peta M diturunkan dari keputusan *tree* itu sendiri, sehingga petak yang disorot adalah petak yang benar-benar dipakai *node*. Grad-CAM hanyalah perkiraan gradien atas keputusan *Faster* R-CNN, dan pada seluruh citra sebagian besar petak teratasnya jatuh di luar proposal yang tidak ikut menentukan keputusan, sehingga hasilnya bahkan di bawah *random control*. Kedua metode menjelaskan kepala klasifikasi yang berbeda, sehingga yang dibandingkan adalah selisih terhadap *random control* masing-masing, bukan angka mutlaknya. Dengan demikian *region* yang disorot SODT menentukan keputusan *tree*, sesuai sifat *faithful* pada Subbab 3.8.2. Biayanya pun kecil, yaitu 67,5 ms per citra dibandingkan 94,7 ms untuk Grad-CAM (deteksi saja 54,6 ms), karena satu propagasi mundur per deteksi sudah mencakup seluruh *node*.
 
 ### 4.7.2 Studi Kasus pada Satu PCB
 
-Penjelasan dibaca pada PCB 1 dari Gambar 4.10, yang memuat lima cacat dari lima kelas berbeda (*open*, *mouse_bite*, *pinhole*, *spur*, dan *spurious copper*). Gambar 4.15 menampilkan citra utuh dengan dua panel, yaitu (a) peta gabungan M pada Persamaan 3.8 untuk deteksi NeSy dan (b) peta Grad-CAM pada proposal yang sama. Kotak putih bernomor adalah deteksi NeSy. Kedua peta digambar hanya di dalam proposal masing-masing deteksi karena kelas sebuah deteksi dihitung dari fitur *RoI Align* di dalam proposalnya, sehingga aktivasi di luar proposal tidak memengaruhi keputusan deteksi tersebut. Setiap peta dinormalisasi sendiri per deteksi.
+Penjelasan dibaca pada PCB 1 dari Lampiran 1, yang memuat lima cacat dari lima kelas berbeda. Gambar 4.15 membandingkan (a) peta gabungan M pada Persamaan 3.8 dengan (b) peta Grad-CAM pada proposal yang sama. Kedua peta hanya digambar di dalam proposal karena kelas deteksi dihitung dari fitur *RoI Align* di dalamnya, dan masing-masing dinormalisasi per deteksi.
 
 ![Gambar 4.15](figures_bab4_v2/fig_xai_overview_pcb1.png)
 
 **Gambar 4.15 Penjelasan pada PCB 1: (a) peta M (NeSy) dan (b) peta Grad-CAM pada proposal yang sama**
 
-Pada panel (a), peta M menyala di dalam setiap kotak dan memusat pada struktur cacatnya sendiri, yaitu celah pada konduktor untuk #5, takik pada tepi konduktor untuk #1, tonjolan kecil untuk #2, lubang untuk #3, dan gumpalan tembaga untuk #4. Pada panel (b), Grad-CAM juga terbatas di dalam proposal, tetapi sorotannya lebih lemah dan lebih tersebar, terutama pada #4 dan #5 yang hampir tidak menyala. Peta M berasal dari keputusan *tree* itu sendiri, sedangkan Grad-CAM adalah perkiraan atas keputusan *Faster* R-CNN. Peta M merupakan label lokasi *region* yang ditimbang dan bukan penyebab per piksel, sehingga kedua peta dibaca sebagai petunjuk letak.
+Peta M memusat pada struktur cacat masing-masing deteksi pada kelima kelas, yaitu celah konduktor (#5), takik tepi (#1), tonjolan (#2), lubang (#3), dan gumpalan tembaga (#4). Grad-CAM lebih lemah dan tersebar, bahkan hampir tidak menyala pada #4 dan #5. Dengan demikian peta M konsisten menunjuk bagian cacat lintas kelas, sedangkan Grad-CAM tidak, sejalan dengan hasil *faithfulness* pada Tabel 4.13. Peta M adalah label lokasi *region* yang ditimbang dan bukan penyebab per piksel, sehingga keduanya dibaca sebagai petunjuk letak.
 
-Lebih lanjut, Gambar 4.16 dan Gambar 4.17 membandingkan tiga peta untuk satu deteksi yang sama, yaitu (a) peta M, (b) peta Grad-CAM pada proposal yang sama, dan (c) peta per *node* sepanjang *decision path*. Peta M pada panel (a) adalah jumlah seluruh peta *node* pada panel (c) menurut Persamaan 3.8, sehingga panel (c) menguraikan M menjadi langkah-langkah keputusannya. Grad-CAM pada panel (b) tidak dapat diuraikan seperti itu karena hanya menghasilkan satu peta per deteksi. Gambar 4.16 menunjukkan deteksi #1 (*mouse_bite*, skor 0,833) dengan *decision path* N0 → N2 → N6 → N14 → N29 → N59, dan Gambar 4.17 menunjukkan deteksi #2 (*spur*, skor 0,801) dengan *decision path* N0 → N2 → N5 → N11 → N24 → N49. Kotak cyan pada setiap peta adalah proposal dan kotak hijau putus-putus adalah kotak deteksi. Pada panel (c), panah menunjukkan urutan *node* dari *root*, dan di atas setiap peta tertulis nomor *node*, arah keputusan, dan faktor σ pada Persamaan 3.3. Perkalian seluruh faktor σ pada jalur sama dengan skor deteksi (0,95 × 0,93 × 0,99 × 0,97 × 1,00 × 0,99 ≈ 0,84 pada Gambar 4.16, selisih terhadap 0,833 berasal dari pembulatan faktor).
+Keunggulan yang tidak dimiliki Grad-CAM adalah uraian per *node*. Peta M merupakan jumlah peta setiap *node* pada Persamaan 3.8, sehingga panel (c) pada Gambar 4.16 dan 4.18 menguraikan M menjadi langkah-langkah keputusan sepanjang *decision path*, sedangkan Grad-CAM hanya menghasilkan satu peta per deteksi. Faktor σ yang tertulis pada setiap *node* adalah *routing margin* pada Persamaan 3.3, sehingga perkalian seluruhnya sama dengan skor deteksi (0,95 × 0,93 × 0,99 × 0,97 × 1,00 × 0,99 ≈ 0,84 pada Gambar 4.16, selisih terhadap 0,833 berasal dari pembulatan). Satu penjelasan dengan demikian memperlihatkan sekaligus bagian yang ditimbang dan keyakinan pada setiap langkah. Gambar 4.16 menunjukkan deteksi #1 (*mouse_bite*, skor 0,833) dengan jalur N0 → N2 → N6 → N14 → N29 → N59, dan Gambar 4.17 deteksi #2 (*spur*, skor 0,801) dengan jalur N0 → N2 → N5 → N11 → N24 → N49. Kotak cyan adalah proposal dan kotak hijau putus-putus adalah kotak deteksi.
 
 ![Gambar 4.16](figures_bab4_v2/fig_xai_path_a.png)
 
 **Gambar 4.16 Perbandingan (a) peta M, (b) peta Grad-CAM pada proposal yang sama, dan (c) peta per *node* sepanjang *decision path* untuk deteksi #1 (*mouse_bite*, skor 0,833) pada PCB 1**
 
-Pada Gambar 4.16, peta M pada panel (a) memusat di sisi kanan takik. Puncak yang sama muncul pada Grad-CAM di panel (b) sebagai garis vertikal di tengah-kanan proposal, tetapi Grad-CAM juga menyala kuat di sepanjang tepi bawah proposal, yang bukan puncak pada M. Pada panel (c), *node* berbeda menyorot bagian berbeda dari cacat yang sama. N0, N14, N29, dan N59 memusat di sisi kanan takik, sedangkan N2 dan N6 memusat di sisi kiri dan kiri bawah proposal. Pembagian ini wajar untuk *tree* yang menyaring secara bertahap. Faktor σ terkecil ada pada N0 (0,95) dan N2 (0,93), sedangkan *node* di bawahnya mendekati 1, sehingga keyakinan keputusan terutama ditentukan pada tingkat atas.
+Pada Gambar 4.16, peta M dan Grad-CAM sama-sama memuncak di sisi kanan takik, tetapi Grad-CAM juga menyala kuat di tepi bawah proposal yang bukan puncak M, sehingga sorotannya lebih tersebar daripada peta M. Panel (c) menunjukkan bahwa puncak M tersusun dari *node* yang menimbang bagian berbeda, yaitu N0, N14, N29, dan N59 pada sisi kanan takik, serta N2 dan N6 pada sisi kiri dan kiri bawah. Pembagian ini wajar bagi *tree* yang menyaring bertahap, karena keputusan tidak bertumpu pada satu titik. Faktor σ terkecil ada pada N0 (0,95) dan N2 (0,93), sedangkan *node* di bawahnya mendekati 1, sehingga keyakinan keputusan terutama ditentukan pada tingkat atas.
 
 ![Gambar 4.17](figures_bab4_v2/fig_xai_path_b.png)
 
 **Gambar 4.17 Perbandingan (a) peta M, (b) peta Grad-CAM pada proposal yang sama, dan (c) peta per *node* sepanjang *decision path* untuk deteksi #2 (*spur*, skor 0,801) pada PCB 1**
 
-Pada Gambar 4.17, peta M pada panel (a) memusat di sisi kiri tengah proposal dan menyebar ke kanan, sedangkan Grad-CAM pada panel (b) menyala paling kuat di tepi kanan bawah proposal dan lebih lemah di sisi kiri. Untuk deteksi ini kedua peta menunjuk bagian yang berbeda, dan hanya peta M yang dapat ditelusuri ke *node* penyusunnya pada panel (c). Pada panel (c), jalur *spur* sama dengan *mouse_bite* pada N0 dan N2, tetapi N2 mengarah ke kiri untuk *spur* dan ke kanan untuk *mouse_bite*, sehingga kedua deteksi berpisah sejak kedalaman 3 (N5 dan bukan N6). Peta *node* berpindah antara bagian tengah proposal (N0, N5), sisi kiri (N11, N24), dan sisi kanan bawah (N2, N49), yaitu bagian-bagian yang berbeda dari tonjolan yang sama. N0 memberi faktor σ terkecil (0,85), sehingga skor 0,801 sebagian besar ditentukan oleh keyakinan pada *root*, sejalan dengan Subbab 4.6.2 yang menyebut *root* sebagai *node* terlemah pada sebagian besar deteksi yang hilang.
+Pada Gambar 4.17, kedua peta menunjuk bagian yang berbeda, yaitu peta M di sisi kiri tengah proposal dan Grad-CAM di tepi kanan bawah. Dari kedua peta, hanya peta M yang dapat ditelusuri ke *node* penyusunnya pada panel (c), sedangkan Grad-CAM tidak. Panel (c) memperlihatkan bahwa *spur* dan *mouse_bite* berjalan sama pada N0 dan N2, tetapi N2 mengarah ke kiri untuk *spur* dan ke kanan untuk *mouse_bite*, sehingga keduanya berpisah sejak kedalaman 3 (N5 dan bukan N6). Selanjutnya peta *node* berpindah antara tengah proposal (N0, N5), sisi kiri (N11, N24), dan kanan bawah (N2, N49), yaitu bagian-bagian yang berbeda dari tonjolan yang sama. N0 memberi faktor σ terkecil (0,85), sehingga skor 0,801 sebagian besar ditentukan oleh keyakinan pada *root*, sejalan dengan Subbab 4.6.2 yang menyebut *root* sebagai *node* terlemah pada sebagian besar deteksi yang hilang.
 
-Dengan demikian, penjelasan SODT memungkinkan pembaca mengikuti keputusan satu deteksi dari *root* hingga *leaf* beserta *region* yang ditimbang pada setiap langkah, sedangkan Grad-CAM hanya memberi satu peta tanpa urutan keputusan.
+Dengan demikian, penjelasan SODT lebih *faithful* daripada Grad-CAM (Subbab 4.7.1), dan pada tingkat satu deteksi memungkinkan pembaca mengikuti keputusan dari *root* hingga *leaf* beserta *region* dan keyakinan pada setiap langkah, yang tidak dapat diberikan Grad-CAM.
 
 # BAB V PENUTUP
 
@@ -1753,3 +1746,13 @@ Xiao, G., Hou, S., Zhou, H., 2024. PCB defect detection algorithm based on CDI-Y
 Zhao, X., Wang, L., Zhang, Y., Han, X., Deveci, M., Parmar, M., 2024. A review of convolutional neural networks in computer vision. *Artificial Intelligence Review* 57(4), 99.
 
 Zhou, B., Khosla, A., Lapedriza, A., Oliva, A., Torralba, A., 2016. Learning deep features for discriminative localization. In: Proceedings of the IEEE Conference on Computer Vision and Pattern Recognition (CVPR), pp. 2921–2929.
+
+# LAMPIRAN
+
+## Lampiran 1 Hasil Deteksi pada Empat PCB Uji
+
+Gambar ini menunjukkan hasil deteksi pada empat PCB uji, dengan *ground truth* pada kolom pertama, *Faster* R-CNN pada kolom kedua, dan NeSy pada kolom ketiga. Ambang skor masing-masing model tertera pada judul kolom. Kotak hijau adalah deteksi benar (TP) dan diberi nomor urutan skor serta skornya, tanpa kelas karena kelasnya sama dengan *ground truth* pada kolom pertama. Kotak merah adalah *false positive* (FP) dengan nomor, kelas, dan skor, sedangkan kotak kuning putus-putus menandai cacat yang terlewat (FN) dengan kelas dan skor kandidat terbaik model pada cacat tersebut, atau tanda – bila model tidak memiliki kandidat.
+
+![Lampiran 1](figures_bab4_v2/fig_deteksi_4pcb.png)
+
+**Lampiran 1 Hasil deteksi *ground truth*, *Faster* R-CNN, dan *Neuro-Symbolic* pada empat PCB uji**
